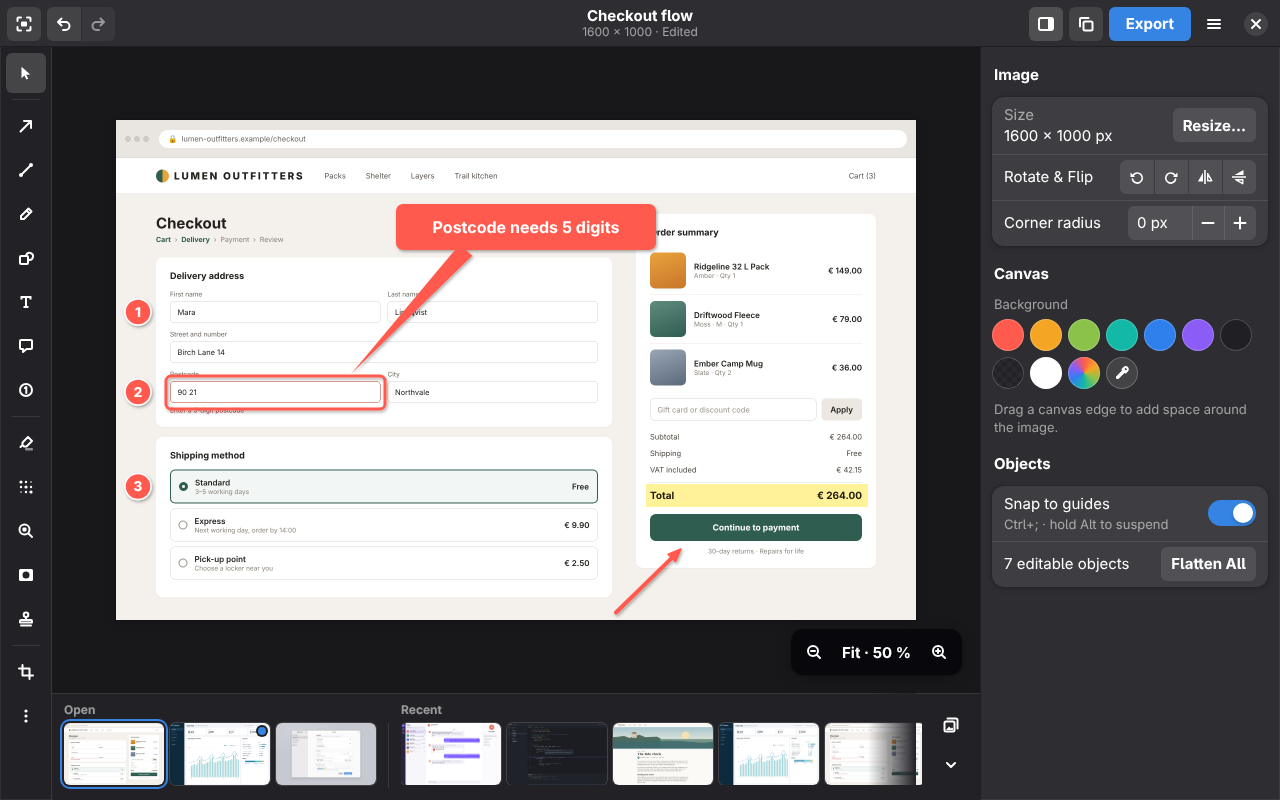
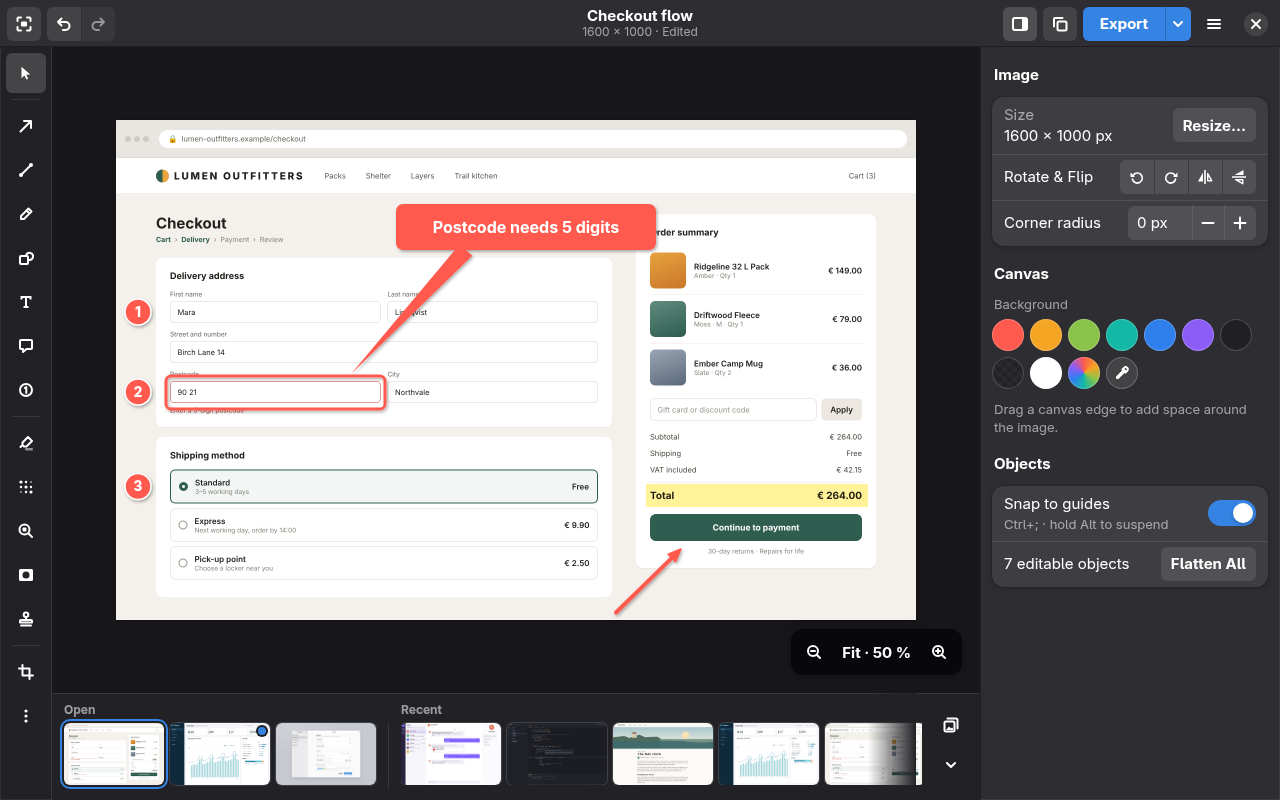
add-annotation-editor/add-core-annotation-tools: Export split-button arrow
Mockups 01 and 19 still drew Export as a plain button; decision D1
(and the add-export-share redraw) use an Adw.SplitButton with a
dropdown arrow opening Share. Visual-only fix to these two screens,
nothing else in either already-implemented change touched.

Changed region(s): [[0.7812, 0.0, 0.9062, 0.0625], [0.9062, 0.6875, 0.9375, 0.7188]]

diff --git a/docs/design/add-core-annotation-tools/src/19-export-redaction-warning.html b/docs/design/add-core-annotation-tools/src/19-export-redaction-warning.html
@@ -105,6 +105,9 @@
   .angle-dial::before { content:""; position:absolute; left:calc(50% - 4px); top:calc(50% - 4px); width:8px; height:8px; border-radius:50%; background:var(--accent-bg); }
   .stack { display:flex; flex-direction:column; gap:12px; }
   .mini-label { font-size:var(--fs-small); opacity:var(--dim-opacity); }
+  /* Editor header end, decision D1: Export is an AdwSplitButton (dropdown = Share menu) */
+  .split-button { display: inline-flex; }
+  .split-button > .btn.split-arrow { width: 26px; min-width: 26px; padding: 0; }
 </style>
 </head>
 <body class="mock-frame flush">
@@ -141,7 +144,7 @@
     <div class="end">
       <button class="btn flat image-button active" title="Show Properties (F9)"><svg class="icon"><use href="#i-sidebar-show-right"/></svg></button>
       <button class="btn image-button" title="Copy to Clipboard (Ctrl+C)"><svg class="icon"><use href="#i-copy"/></svg></button>
-      <button class="btn text-button suggested-action">Export</button>
+      <div class="linked split-button"><button class="btn text-button suggested-action" title="Export (Ctrl+E)">Export</button><button class="btn suggested-action split-arrow" title="Share"><svg class="icon"><use href="#i-pan-down"/></svg></button></div>
       <button class="btn flat image-button"><svg class="icon"><use href="#i-open-menu"/></svg></button>
       <div class="window-controls"><span class="wc"><svg class="icon"><use href="#i-close"/></svg></span></div>
     </div>

diff --git a/docs/design/add-annotation-editor/src/01-editor-overview.html b/docs/design/add-annotation-editor/src/01-editor-overview.html
@@ -71,6 +71,9 @@
   .chip.violet { background: var(--annota-violet); }
   .cursor { position: absolute; width: 18px; height: 18px; }
   .zoom-osd .label { min-width: 64px; text-align: center; }
+  /* Editor header end, decision D1: Export is an AdwSplitButton (dropdown = Share menu) */
+  .split-button { display: inline-flex; }
+  .split-button > .btn.split-arrow { width: 26px; min-width: 26px; padding: 0; }
 </style>
 </head>
 <body class="mock-frame flush">
@@ -107,7 +110,7 @@
     <div class="end">
       <button class="btn flat image-button active" title="Show Properties (F9)"><svg class="icon"><use href="#i-sidebar-show-right"/></svg></button>
       <button class="btn image-button" title="Copy to Clipboard (Ctrl+C)"><svg class="icon"><use href="#i-copy"/></svg></button>
-      <button class="btn text-button suggested-action">Export</button>
+      <div class="linked split-button"><button class="btn text-button suggested-action" title="Export (Ctrl+E)">Export</button><button class="btn suggested-action split-arrow" title="Share"><svg class="icon"><use href="#i-pan-down"/></svg></button></div>
       <button class="btn flat image-button"><svg class="icon"><use href="#i-open-menu"/></svg></button>
       <div class="window-controls"><span class="wc"><svg class="icon"><use href="#i-close"/></svg></span></div>
     </div>
